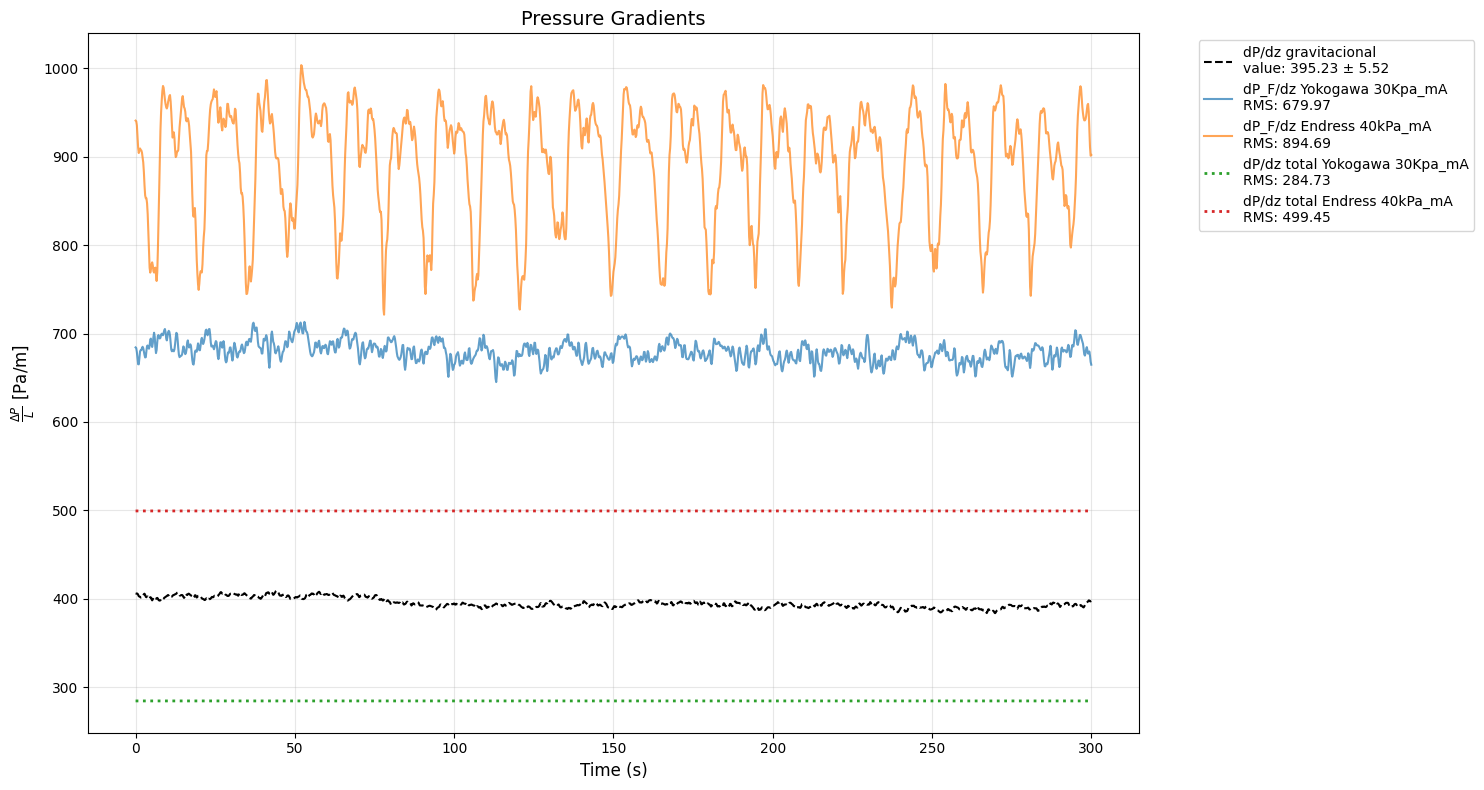
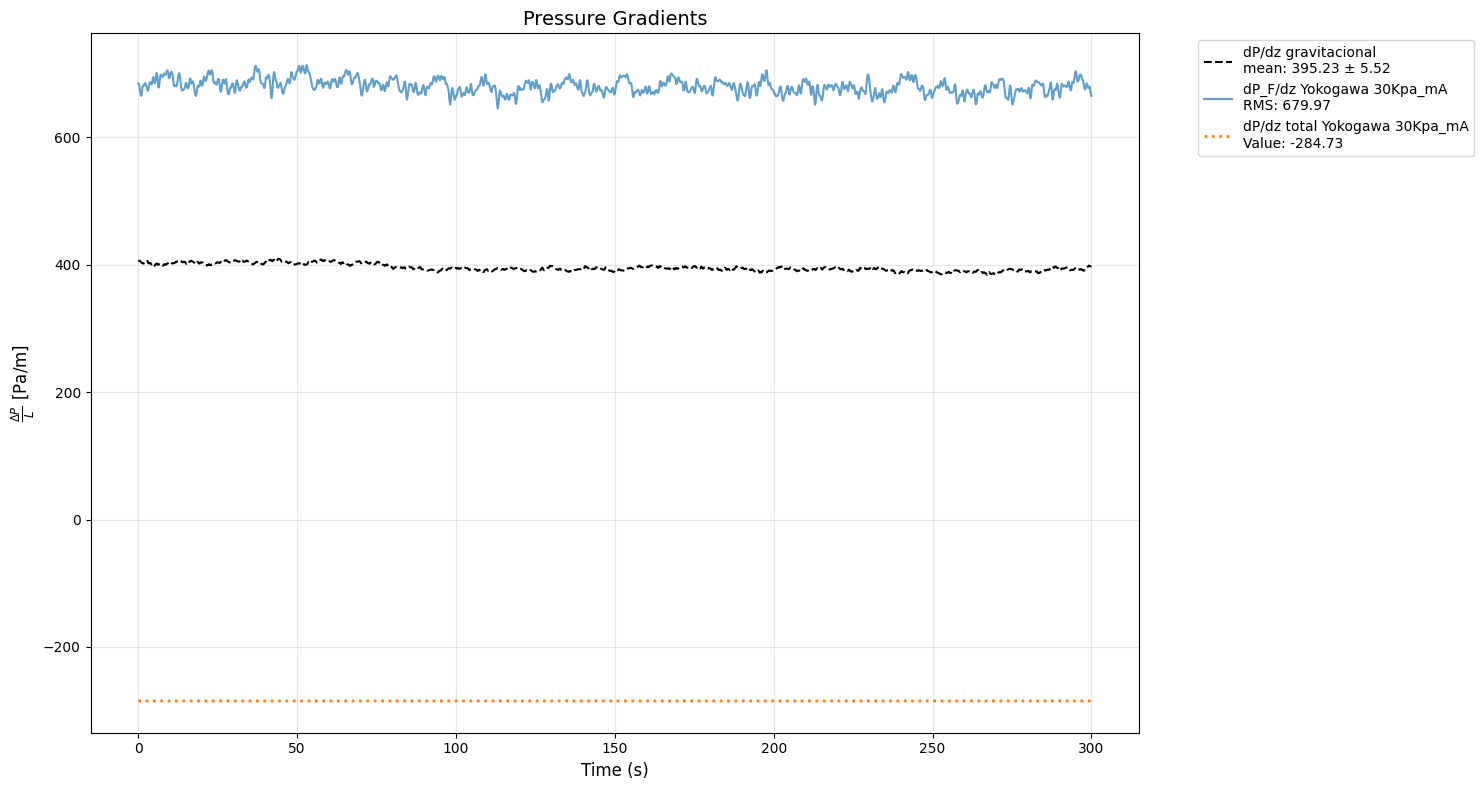
primeira versão de cálculo de incertezas

diff --git a/exp_unc.py b/exp_unc.py
@@ -10,22 +10,21 @@ import sys
 ####################################################################################################################################################
 #                                            INPUTS
 ####################################################################################################################################################
-file_path = 'example/AWD45/AWD45P01/AWD45P01' #Insira o caminho do arquivo a ser analisado NOTE: USE SEMPRE A BARRA NORMAL '/', SE ESTIVER INVERTIDA, MODIFIQUE-A
+file_path = 'data_example/example/AWD45/AWD45P01/AWD45P01' #Insira o caminho do arquivo a ser analisado NOTE: USE SEMPRE A BARRA NORMAL '/', SE ESTIVER INVERTIDA, MODIFIQUE-A
 
 L = 1.70         # m comprimento entre as tomadas de diferencial de pressão
 
 # Valores de calibração do densitômetro IMPORTANTE
-I_g = 275191                     # Insira a intensidade padrão para o gás (Calibração do densitômetro)
-I_f = 164176                      # Insira a intensidade padrão para o líquido (Calibração do densitômetro)
+I_g = 252883                     # Insira a intensidade padrão para o gás (Calibração do densitômetro)
+I_f = 151287                      # Insira a intensidade padrão para o líquido (Calibração do densitômetro)
 
-sensor_Yokogawa = 'PDT-M-0101C-10kPa_mA'
+sensor_Yokogawa = 'PDT-M-0101D-30Kpa_mA'
 sensor_Endress = 'PDT-M-0101-40kPa_mA'
 
 ### Colunas de interesse -> Insira o nome das colunas a plotar e avaliar do arquivo .dat
 # Lista de colunas para análise: [nome_coluna, apelido, unidade]
 colunas_analise = [
-    ['PDT-M-0101-40kPa', r'\Delta P_{40\,kPa} / L', r'[Pa/m]'],
-    ['PDT-M-0101C-3kPa', r'\Delta P_{3\,kPa} / L', r'[Pa/m]'],
+    [sensor_Yokogawa, r'\Delta P_{30\,kPa} / L', r'[Pa/m]'],
     ['Alpha', r'\alpha', r''],
     ['J Agua corrigido', r'J_{water}', r'[m/s]'],
     ['J Ar corrigido', r'J_{air}', r'[m/s]'],
@@ -191,6 +190,140 @@ def format_filename(alias: str, unit: str) -> str:
     
     return name
 
+def uncertainties_calc(resumo_df,window_df):
+    if '30Kpa' in sensor_Yokogawa:         #### Mudar nome no Labview
+        span_yokogawa = 60E3      
+    elif '10Kpa' in sensor_Yokogawa:
+        span_yokogawa = 20E3     
+
+    # Incerteza dos sensores Yokogawa
+    udP = 0.0005*span_yokogawa
+    dP_mean = np.mean(window_df[sensor_Yokogawa])
+    dP = unc.ufloat(dP_mean,udP)
+    print(sensor_Yokogawa)
+    print('dP: ', dP)
+
+    # Incerteza de Alpha estimada
+    uAlpha = 0.015
+    Alpha = unc.ufloat(resumo_df['Alpha'].iloc[0],uAlpha)
+    print('Alpha: ', Alpha)
+
+    T_mean = resumo_df['TIT-M-0101'].iloc[0]
+    uT = 0.02*T_mean
+    T = unc.ufloat(T_mean,uT)
+    T_abs = T + 273.15
+    print('T: ', T)
+
+    P_mean = (resumo_df['PIT-M-0101'].iloc[0] + 1) * 1E5            #Absolute pressure in Pa
+    uP = 0.0025*P_mean
+    P = unc.ufloat(P_mean,uP)
+    print('P: ', P)
+    
+    # Cálculo da incerteza da densidade do gás
+    M_ar = 28.96e-3 #[kg/kmol]			    # Massa molecular do ar em [kg/kmol] 
+    R = 8.314 #[kJ/kmolK]				    # Constante universal dos gases [kJ/kmol.K] 
+    rho_G = (P * M_ar) / (R * T_abs)	# Densidade média do ar em [kg/m^3] 
+    u_rho_g = rho_G.std_dev
+    print('u_rho_g: ', rho_G)
+
+    # Cálcuo da incerteza da densidade do líquido
+    rho_L = - 0.0042*(T**2) - 0.0529*T + 1000.9		# Média da densidade do líquido
+    u_rho_l = rho_L.std_dev
+    print('u_rho_l: ', rho_L)
+
+    rho_tubbing = rho_s
+    print('rho_tubbing: ', rho_tubbing)
+    theta_rad = np.deg2rad(theta)
+    print('theta_rad: ', theta_rad)
+
+    g = 9.81
+    uL = 0.5E-3
+    L_ = unc.ufloat(L,uL)
+    print('L: ', L_)
+
+
+    dPg_dz = ((1-Alpha)*rho_L + Alpha*rho_G) * g * np.sin(theta_rad)
+    print(f'dPg_dz: {dPg_dz:.3f}')
+    # Cálculo da incerteza do friccional
+            
+    if direction in ['Upward', 'Horizontal']:
+        dPf_dz = (dP/L_) - ((1-Alpha)*rho_L + Alpha*rho_G - rho_tubbing) * g * np.sin(theta_rad)
+        dPt_dz = abs(dPf_dz) + dPg_dz
+    elif direction == 'Downward':
+        print('Downward')
+        dPf_dz = -(dP/L_) + ((1-Alpha)*rho_L + Alpha*rho_G - rho_tubbing) * g * np.sin(theta_rad)
+        dPt_dz = -abs(dPf_dz) + dPg_dz
+    
+    print(f'dPf_dz: {dPf_dz:.3f}')
+    print(f'dPt_dz: {dPt_dz:.3f}')
+    
+    # Alocando as incetezas
+    udPf_dz = dPf_dz.std_dev
+    udPg_dz = dPg_dz.std_dev
+    udPt_dz = dPt_dz.std_dev
+
+    # Adicionar a incerteza ao resumo_df logo após a coluna dP_F_dz do sensor Yokogawa
+    col_name = f'dP_F/dz {sensor_Yokogawa}'
+    unc_col_name = f'udP_F_dz_{sensor_Yokogawa}'
+    if col_name in resumo_df.columns:
+        items = list(resumo_df.iloc[0].items())
+        idx = [i for i, (k, v) in enumerate(items) if k == col_name]
+        if idx:
+            insert_pos = idx[0] + 1
+            items.insert(insert_pos, (unc_col_name, udPf_dz))
+            resumo_df = pd.DataFrame([dict(items)])
+        else:
+            resumo_df[unc_col_name] = udPf_dz
+    else:
+        resumo_df[unc_col_name] = udPf_dz
+
+    # Adicionar a incerteza ao resumo_df logo após a coluna Alpha
+    alpha_col_name = 'Alpha'
+    alpha_unc_col_name = 'uAlpha'
+    if alpha_col_name in resumo_df.columns:
+        items = list(resumo_df.iloc[0].items())
+        idx = [i for i, (k, v) in enumerate(items) if k == alpha_col_name]
+        if idx:
+            insert_pos = idx[0] + 1
+            items.insert(insert_pos, (alpha_unc_col_name, uAlpha))
+            resumo_df = pd.DataFrame([dict(items)])
+        else:
+            resumo_df[alpha_unc_col_name] = uAlpha
+    else:
+        resumo_df[alpha_unc_col_name] = uAlpha
+
+    # Adicionar a incerteza ao resumo_df logo após a coluna dP_dz_gravitacional
+    grav_col_name = 'dP_dz_gravitacional'
+    grav_unc_col_name = 'udP_dz_gravitacional'
+    if grav_col_name in resumo_df.columns:
+        items = list(resumo_df.iloc[0].items())
+        idx = [i for i, (k, v) in enumerate(items) if k == grav_col_name]
+        if idx:
+            insert_pos = idx[0] + 1
+            items.insert(insert_pos, (grav_unc_col_name, udPg_dz))
+            resumo_df = pd.DataFrame([dict(items)])
+        else:
+            resumo_df[grav_unc_col_name] = udPg_dz
+    else:
+        resumo_df[grav_unc_col_name] = udPg_dz
+
+    # Adicionar a incerteza ao resumo_df logo após a coluna dP_dz_total do sensor Yokogawa
+    total_col_name = f'dP_dz_total_{sensor_Yokogawa}'
+    total_unc_col_name = f'udP_dz_total_{sensor_Yokogawa}'
+    if total_col_name in resumo_df.columns:
+        items = list(resumo_df.iloc[0].items())
+        idx = [i for i, (k, v) in enumerate(items) if k == total_col_name]
+        if idx:
+            insert_pos = idx[0] + 1
+            items.insert(insert_pos, (total_unc_col_name, udPt_dz))
+            resumo_df = pd.DataFrame([dict(items)])
+        else:
+            resumo_df[total_unc_col_name] = udPt_dz
+    else:
+        resumo_df[total_unc_col_name] = udPt_dz
+
+    return resumo_df
+
 def save_results(df: pd.DataFrame, coluna_escolhida: str, start_idx: int, end_idx: int, min_std: float, media_janela: float, 
                 min_window_size: float, max_window_size: float, best_window_size: float, file_path: str, data_teste: str, 
                 fluid_1: str, fluid_2: str, direction: str, theta: int, ID: str, nomes: list = None, medias: list = None, desvios: list = None, uAs: list = None,
@@ -288,10 +421,36 @@ def save_results(df: pd.DataFrame, coluna_escolhida: str, start_idx: int, end_id
             medias_corrigidas.append(medias_janela[col])
     
     resumo_dict = dict(zip(colunas_corrigidas, medias_corrigidas))
-    
+
+    # Calcular rho_agua médio na janela
+    try:
+        if 'TIT-M-0101' in window_data.columns:
+            temp_agua_celsius = window_data['TIT-M-0101']
+            temp_agua_k = temp_agua_celsius + 273.15
+            rho_agua_vals = [PropsSI('D', 'T', t, 'P', 101325, 'Water') for t in temp_agua_k]
+            rho_agua_medio = np.mean(rho_agua_vals)
+        else:
+            rho_agua_medio = 1000
+    except Exception as e:
+        rho_agua_medio = 1000
+
+    # Inserir rho_agua logo após rho_g
+    if 'rho_g' in resumo_dict:
+        items = list(resumo_dict.items())
+        idx = [i for i, (k, v) in enumerate(items) if k == 'rho_g']
+        if idx:
+            insert_pos = idx[0] + 1
+            items.insert(insert_pos, ('rho_agua', rho_agua_medio))
+            resumo_dict = dict(items)
+        else:
+            resumo_dict['rho_agua'] = rho_agua_medio
+    else:
+        resumo_dict['rho_agua'] = rho_agua_medio
+
     resumo_df = pd.DataFrame([resumo_dict])
     
     window_df = pd.DataFrame()
+
     for col in colunas_corrigidas:
         if col == 'dP_dz_gravitacional':
             window_df[col] = window_data['dP_F/dz dP_dz_gravitacional']
@@ -302,11 +461,12 @@ def save_results(df: pd.DataFrame, coluna_escolhida: str, start_idx: int, end_id
     
     window_df.insert(0, 'Time (s)', window_data['X_Value'])
     
+    # Atualizar resumo_df com as incertezas e salvar no Excel
+    resumo_df = uncertainties_calc(resumo_df, window_df)
+
     with pd.ExcelWriter(output_file, engine='openpyxl') as writer:
         header_df.to_excel(writer, sheet_name='Info', index=False)
-        
         resumo_df.to_excel(writer, sheet_name='Resumo Medias', index=False, header=True)
-        
         window_df.to_excel(writer, sheet_name='Serie Temporal', index=False)
     
 
@@ -363,7 +523,7 @@ def plot_time_series(df, colunas, output_dir, base_name):
         
         ax.axhline(y=media_serie, color='g', linestyle='--', label=f'Mean: {media_serie:.4f}')
         ax.axhline(y=media_serie + desvio_serie, color='r', linestyle=':', label=f'std: ±{desvio_serie:.4f}')
-        if nome_coluna.startswith('PDT-') and (y_min/abs(y_min)) != (y_max/abs(y_max)):
+        if nome_coluna.startswith('PDT-'):
             ax.axhline(y=rms_pdt, color='g', linestyle='-', label=f'RMS: {rms_pdt:.4f}')
         ax.axhline(y=media_serie - desvio_serie, color='r', linestyle=':')
         ax.legend(fontsize=8, loc='upper right')
@@ -435,7 +595,7 @@ def plot_windows(df, colunas, start_idx, end_idx, best_window_size, output_dir, 
         
         ax.axhline(y=media_janela, color='g', linestyle='--', label=f'Mean: {media_janela:.4f}')
         ax.axhline(y=media_janela + desvio_janela, color='r', linestyle=':', label=f'std: ±{desvio_janela:.4f}')
-        if nome_coluna.startswith('PDT-') and (y_min/abs(y_min)) != (y_max/abs(y_max)):
+        if nome_coluna.startswith('PDT-'):
             ax.axhline(y=rms_pdt_win, color='g', linestyle='-', label=f'RMS: {rms_pdt_win:.4f}')
         ax.axhline(y=media_janela - desvio_janela, color='r', linestyle=':')
         ax.legend(fontsize=8, loc='upper right')
@@ -872,6 +1032,8 @@ if __name__ == "__main__":
     
     plot_pressure_gradients(df, dP_F_df, start_idx, end_idx, output_dir, base_name, sensor_Yokogawa, sensor_Endress, direction)
     print("Arquivo excel dos dados tratados criado...")
+
+
 
     print('##########################################################################')
     print('#AEEEE! Parabéns executado com sucesso, boa sorte com a análise de dados!#')
